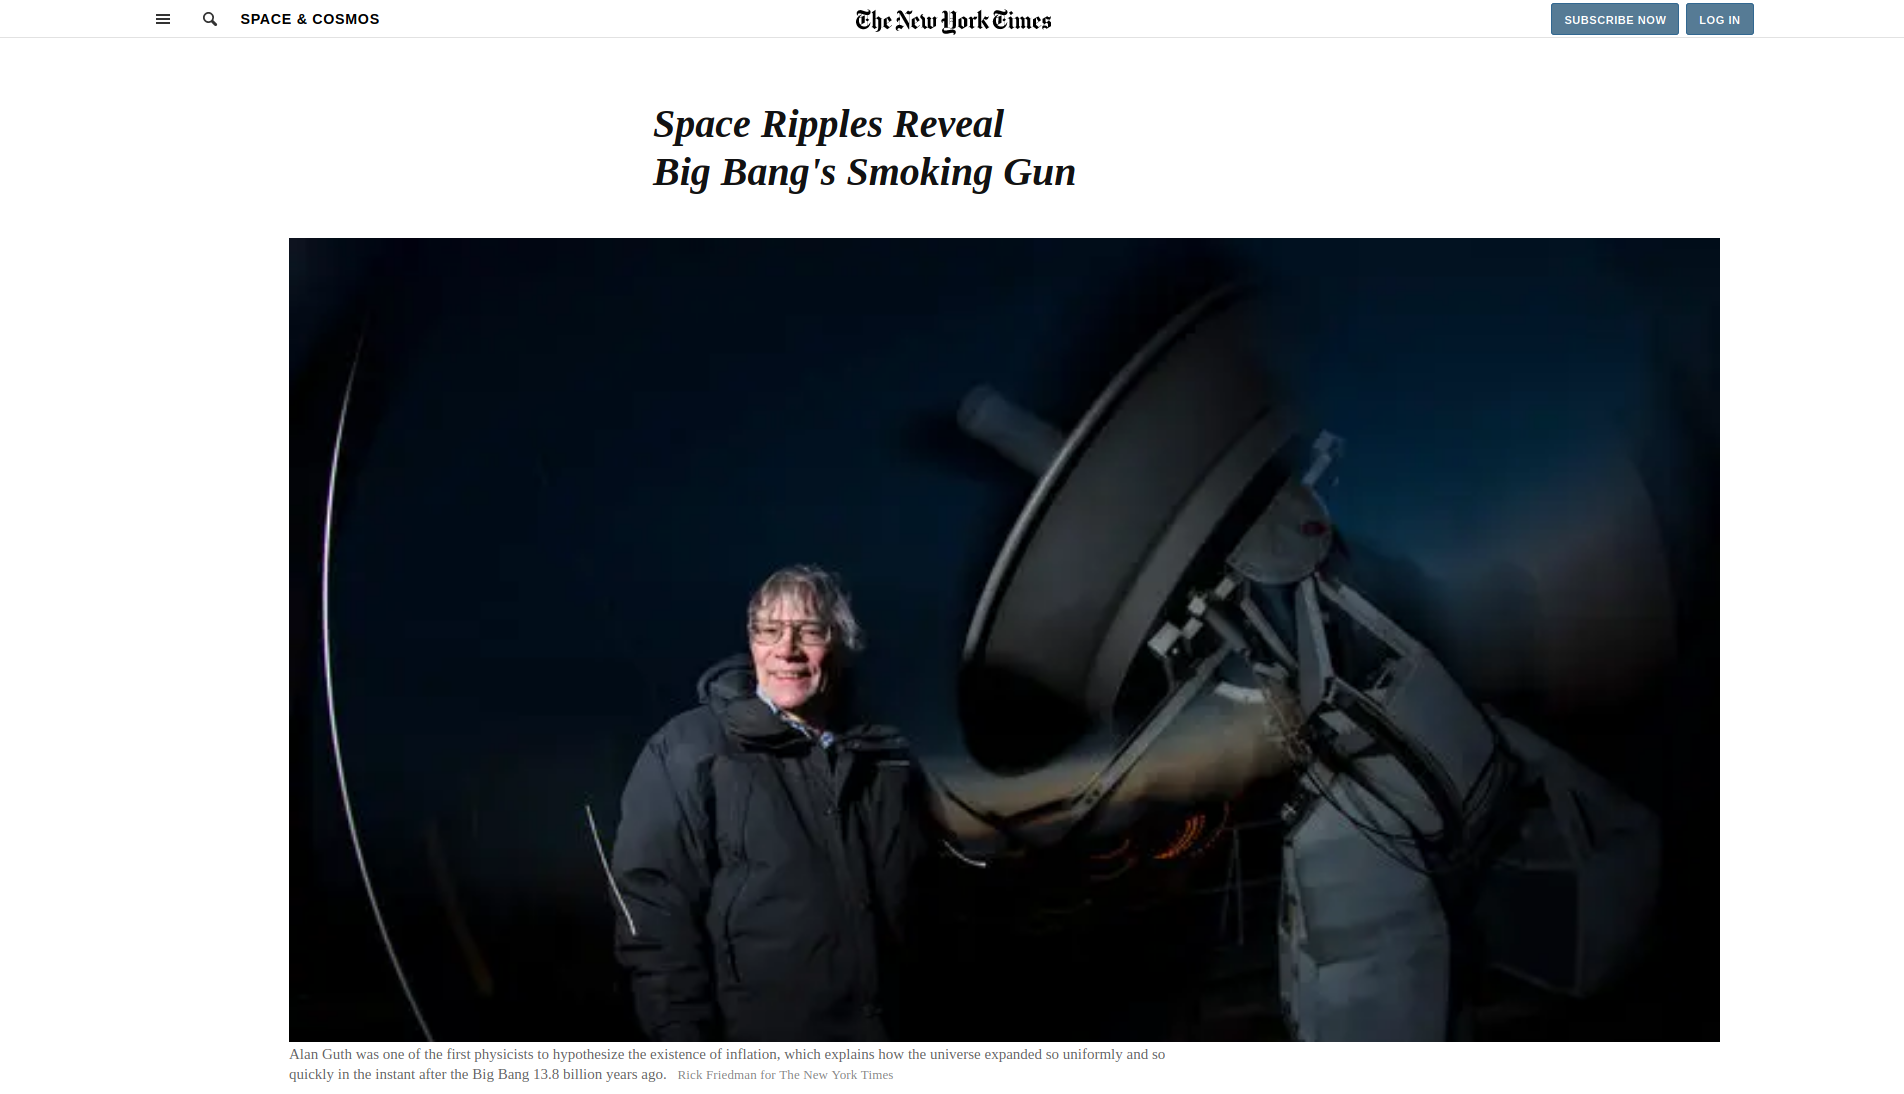
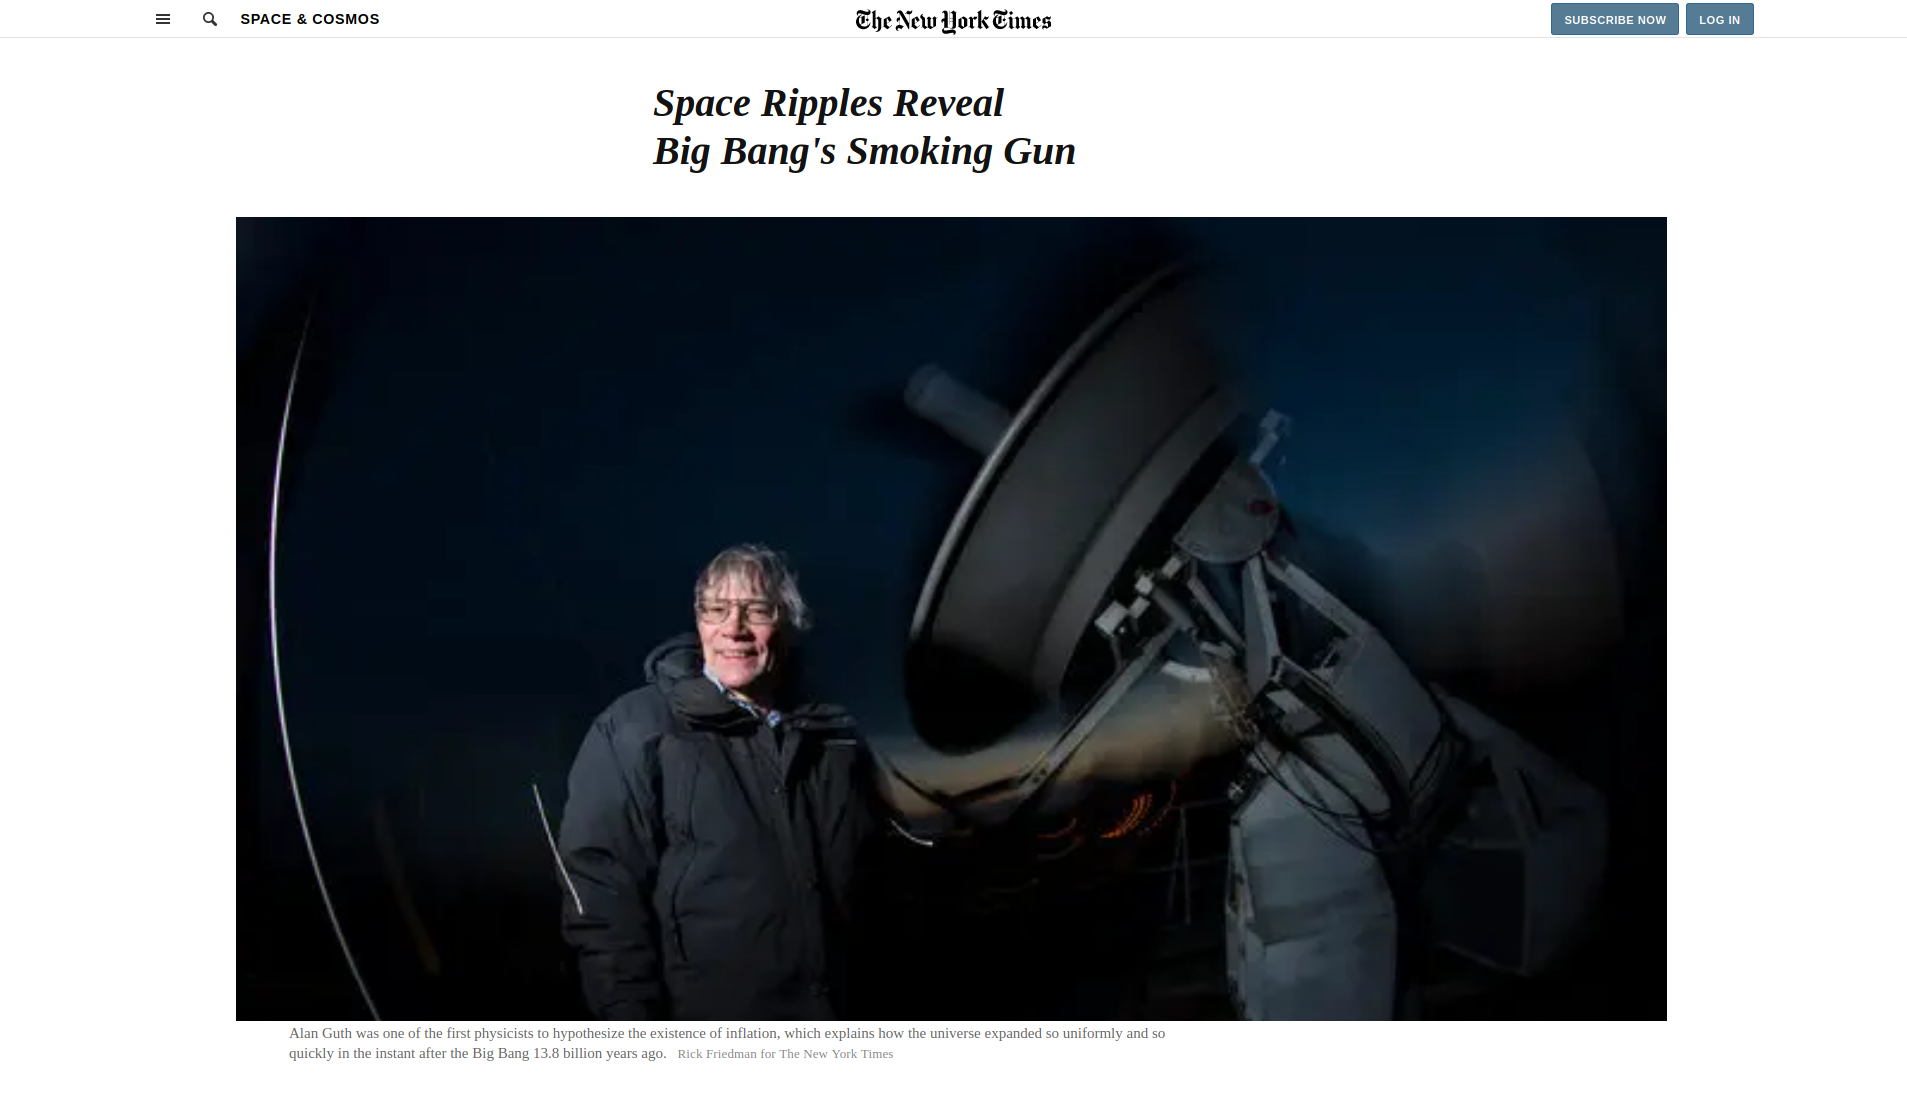
correct main img offset, update main screenshot

diff --git a/css/main.css b/css/main.css
@@ -200,7 +200,7 @@
   height: 100%;
   position: relative;
   max-height: 100%;
-  left: 15.2%;
+  left: 12.4%;
 }
 
 .mainImgFooterContainer {
